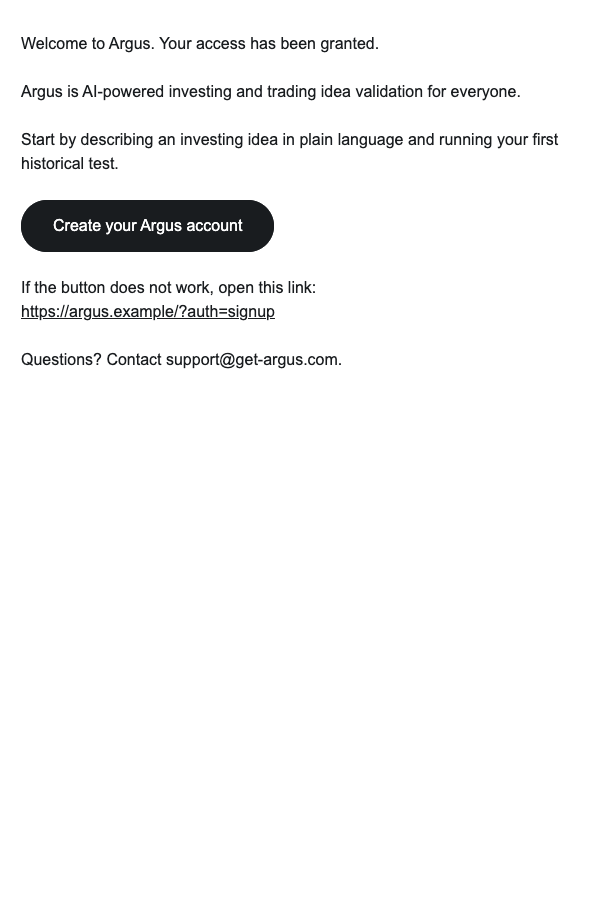
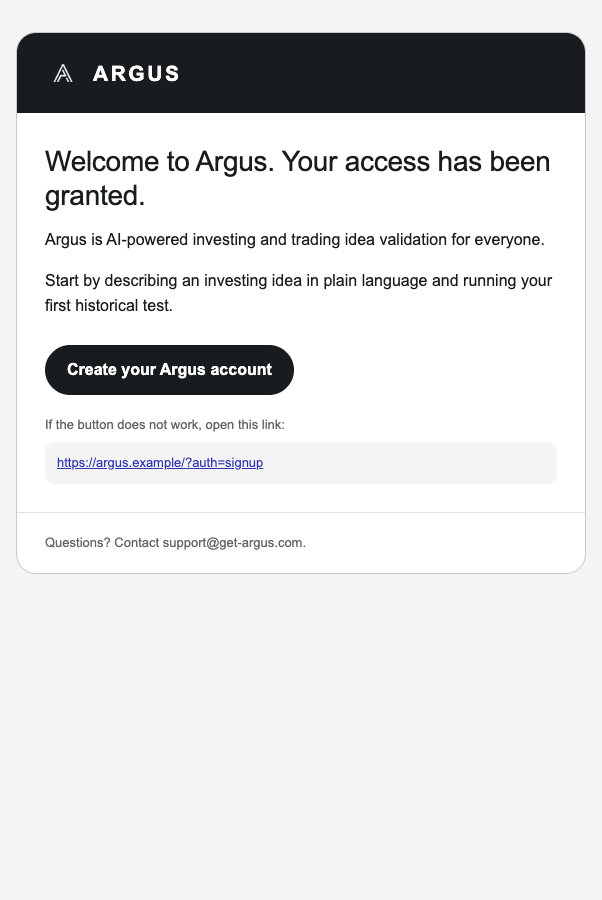
test(email): recapture canonical welcome renders

Changed region(s): [[0.0, 0.0311, 0.9867, 0.5289], [0.0897, 0.5911, 0.5083, 0.6222], [0.7774, 0.3111, 0.897, 0.3422]]

diff --git a/docs/reports/evidence/461/README.md b/docs/reports/evidence/461/README.md
@@ -1,6 +1,6 @@
 # Issue #461 access welcome evidence
 
-Status: historical deterministic, browser, external-message, and isolated-database evidence retained for issue #461. This file is not a terminal exact-head claim for the current PR #476 head.
+Status: historical deterministic, external-message, and isolated-database evidence plus current canonical-shell browser evidence for issue #461. This file is not a terminal exact-head claim for the current PR #476 head.
 
 ## Candidate identity
 
@@ -9,7 +9,7 @@ Status: historical deterministic, browser, external-message, and isolated-databa
 - Historical proven head: `1014c41db50250b22f3bae26fe105f62f17a3ebf`.
 - Historical GitHub Actions run: [31618243334](https://github.com/lagarcess/argus/actions/runs/31618243334), terminal success for that head.
 - Required isolated-database job: `guest-release-gates` job `94186292441`, terminal success.
-- Email implementation and code-owned HTML source head: `30f2830cad5ce08315c421289252bb7203d4afae`.
+- Canonical-shell implementation and screenshot-source head: `7ec58687a7f1bf0c1d6cf12472e0023caa25c7b1`.
 - Branch: `codex/issue-461-welcome-email`.
 - Content version: `private-alpha-access-welcome/v1`.
 - No hosted migration, production deploy, live canary, hosted application API call, or real application SMTP call occurred in Task 5. The original delivery migration was later applied to the PR preview, which is why the durable claim fix uses a new forward migration.
@@ -68,29 +68,32 @@ The eighth failure was candidate-specific but outside Task 5 ownership: `tests/t
 
 ## Browser rendering proof
 
-The screenshots are generated from `build_access_welcome_email` at source head `30f2830c`, using `https://argus.example/?auth=signup` as a non-production origin. The temporary EN and `es-419` files were the exact, unmodified builder HTML bytes. The server supplied `Content-Type: text/html; charset=utf-8`; the fixed viewport was set only through Playwright. No wrapper, `<head>`, `<meta>`, product copy, or style was added to the document.
+The screenshots are generated from `build_access_welcome_email` at source head `7ec58687`, using `https://argus.example/?auth=signup` as a non-production origin. That head changes only the HTML shell and its focused regression test. Subjects, plain text, bilingual product copy, first action, CTA destination, support copy, SMTP behavior, claim behavior, and content version are unchanged. The temporary EN and `es-419` files were the exact, unmodified builder HTML bytes. The server supplied `Content-Type: text/html; charset=utf-8`; the fixed viewport was set only through Playwright. No wrapper, `<head>`, `<meta>`, product copy, or style was added to the document.
 
 Before capture, the served response bodies compared byte-for-byte equal to the generated builder files. The exact screenshot-source HTML hashes were:
 
[4 lines of base64/hex data omitted]
 
 Final Playwright captures used separate fresh contexts at the same fixed `602 x 900` mobile-friendly viewport. Each context explicitly reset horizontal and vertical scroll to zero. For both languages:
 
 - `document.characterSet` was `UTF-8`;
 - `document.head.innerHTML` was empty;
 - `scrollWidth` equaled the 602px viewport width;
-- the 560px email table occupied integer coordinates `x=21` through `x=581`;
+- the responsive 600px-max card occupied `x=16` through `x=586`, stayed inside the viewport, and had the canonical `#c9c9cd` border with a 20px radius;
+- the dark header loaded the canonical 192px Argus source image at a rendered 36px size, and the visible `ARGUS` wordmark used `letter-spacing:0.12em`;
+- the body and heading computed the canonical Inter and Space Grotesk fallback stacks;
 - the full CTA, fallback link, and support line were inside the capture;
 - the CTA target was `https://argus.example/?auth=signup`;
 - the computed CTA background was `rgb(25, 28, 31)` and radius was `9999px`.
+- the fallback URL computed to `rgb(48, 54, 179)` and the support footer had the canonical top border.
 
 | Evidence | SHA-256 | Inspection |
 | --- | --- | --- |
[4 lines of base64/hex data omitted]
 
-The first Spanish capture was rejected because the temporary server did not declare UTF-8 and rendered mojibake. A later 430px capture also clipped the 560px email canvas. The English capture retained stale horizontal state during one retry. All rejected frames were overwritten. The final frames above serve exact builder bytes with UTF-8 supplied only by HTTP, use an integer-centered canvas and fresh zero-scroll contexts, and add nothing to the document. Standalone image inspection confirmed both corrected PNGs.
+The earlier bare-canvas screenshots were superseded because they did not match the live Supabase Auth shell. The final frames above serve exact builder bytes with UTF-8 supplied only by HTTP, use separate fresh zero-scroll contexts, and add nothing to the document. Standalone original-resolution inspection confirmed both corrected PNGs. An image-viewer cache showed a stale cropped Spanish raster on the first path reuse, so the current `2c887ebe` bytes were also inspected through a unique copy and showed the complete frame.
 
 ## External delivery proof
 
@@ -98,7 +101,7 @@ The release captain generated the exact English content from source head `30f283
 
 Fresh sanitized Gmail RAW evidence in `raw-header-proof.txt` confirms SPF, DKIM, and DMARC pass plus `multipart/alternative`, with `text/plain; charset=utf-8` and `text/html; charset=utf-8` child parts. The matching message was in Inbox, excluded Spam and Trash, and had no Spam match.
 
-The release captain compared both decoded Gmail MIME parts to builder output generated with that configured signup URL:
+The release captain compared both decoded Gmail MIME parts to the builder output generated with that configured signup URL at the historical pre-shell source head `30f2830c`:
 
[1 lines of base64/hex data omitted]
 - decoded Gmail plain SHA-256 after CRLF-to-LF canonicalization: the same hash, equality true;
@@ -107,17 +110,17 @@ The release captain compared both decoded Gmail MIME parts to builder output gen
 
 Plain-text canonicalization removed transport CRLF differences only. It did not change content.
 
-This is connector-owned external delivery proof. It does not claim that the connector executed `send_access_welcome_email` or the hosted application's SMTP path. Deterministic production SMTP tests separately prove that the code emits `Argus <noreply@get-argus.com>` and preserves its multipart, idempotency-key, and acceptance behavior.
+This is connector-owned external delivery and transport-authentication proof for the unchanged sender and SMTP path. Its HTML body predates the canonical-shell correction and is not current visual or byte-equality proof for head `7ec58687`. It does not claim that the connector executed `send_access_welcome_email` or the hosted application's SMTP path. Deterministic production SMTP tests separately prove that the current code emits `Argus <noreply@get-argus.com>` and preserves its multipart, idempotency-key, and acceptance behavior.
 
 ## Retained artifact classification
 
-- `welcome-email-en.png` and `welcome-email-es-419.png` are retained visual and
-  copy evidence from the recorded builder heads. The durable-claim and canary
-  fixes do not change email copy, HTML, CTA styling, or signup URL construction,
-  so the captures remain relevant historical evidence and were not recaptured.
+- `welcome-email-en.png` and `welcome-email-es-419.png` are current visual and
+  copy evidence from canonical-shell source head `7ec58687`. The following
+  evidence-only commit changes the PNG files and this report, not the builder.
 - `raw-header-proof.txt` is retained historical external-delivery evidence for
-  the message content and transport-authentication result. It does not prove
-  the current protected route, claim RPC, new migration, or PR head.
+  the unchanged sender and transport-authentication result. Its HTML body uses
+  the superseded pre-shell layout, so it does not prove the current render,
+  protected route, claim RPC, new migration, or PR head.
 - `idempotency-proof.txt` is retained as historical route and isolated-database
   evidence at `1014c41d`. Its terminal-head classification is superseded. The
   new pre-send claim, crash-window, privilege, rollback, and canary behavior
